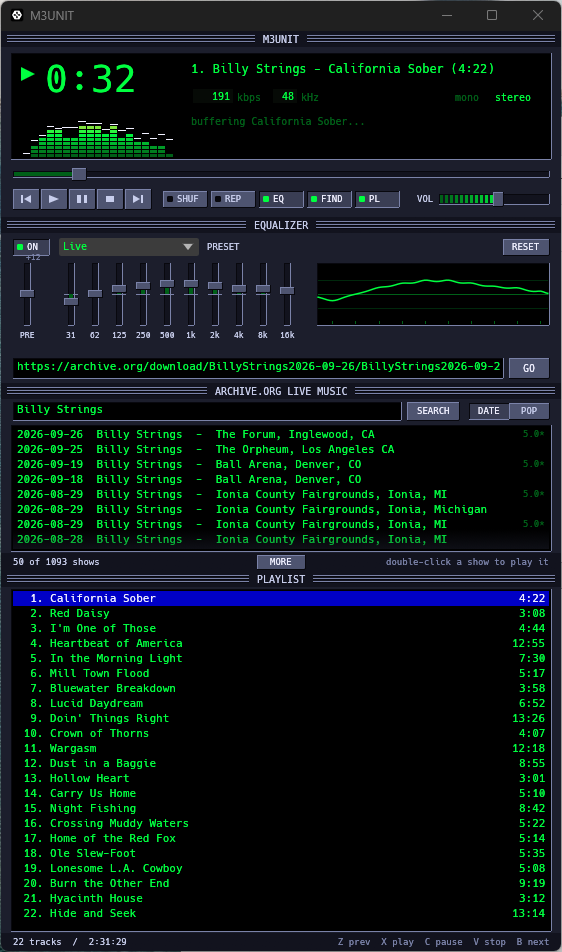
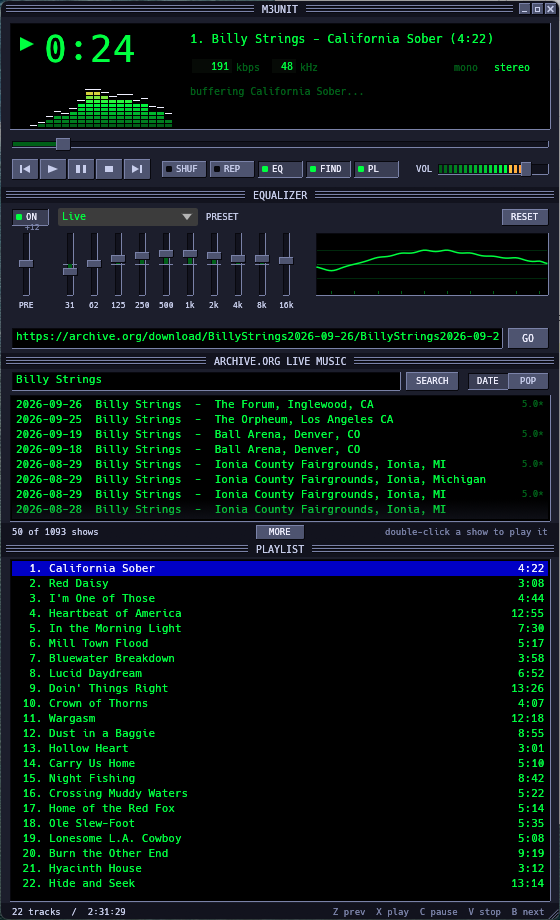
Draw our own title bar instead of the OS window chrome
The window is created without decorations. The M3UNIT bar now moves the
window when dragged, toggles maximize on double-click, and has minimize /
maximize / close buttons at the right. The right and bottom edges act as
resize handles, with a ridge grip in the playlist footer.

diff --git a/src/app.rs b/src/app.rs
@@ -5,9 +5,10 @@ use std::sync::mpsc;
 use std::time::{Duration, Instant};
 
 use egui::{
-    Align, Align2, Color32, CornerRadius, FontId, Key, Pos2, Rect, Response, RichText, Sense, Shape,
-    Stroke, StrokeKind, Ui, pos2, vec2,
+    Align, Align2, Color32, CornerRadius, CursorIcon, FontId, Key, PointerButton, Pos2, Rect, Response,
+    RichText, Sense, Shape, Stroke, StrokeKind, Ui, ViewportCommand, pos2, vec2,
 };
+use egui::viewport::ResizeDirection;
 use url::Url;
 
 use crate::archive::{self, SearchPage, Show, Sort};
@@ -547,29 +548,103 @@ impl App {
 
     // ------------------------------------------------------------- drawing
 
+    /// Section header: a hatched bar with a centred label.
     fn draw_title_bar(&self, ui: &mut Ui, label: &str) {
         let (rect, _) = ui.allocate_exact_size(vec2(ui.available_width(), 16.0), Sense::hover());
-        let p = ui.painter();
-        p.rect_filled(rect, 0.0, pal::BG_DEEP);
-        let galley = p.layout_no_wrap(label.to_string(), FontId::monospace(10.0), pal::TITLE);
-        let text_w = galley.size().x + 16.0;
-        let cx = rect.center().x;
-        // hatched grip lines on both sides of the label
-        for side in [-1.0f32, 1.0] {
-            let (x0, x1) = if side < 0.0 {
-                (rect.left() + 6.0, cx - text_w / 2.0)
-            } else {
-                (cx + text_w / 2.0, rect.right() - 6.0)
-            };
-            if x1 > x0 {
-                for k in 0..3 {
-                    let y = rect.top() + 4.0 + k as f32 * 3.0;
-                    p.line_segment([pos2(x0, y), pos2(x1, y)], Stroke::new(1.0, pal::LIGHT));
-                    p.line_segment([pos2(x0, y + 1.0), pos2(x1, y + 1.0)], Stroke::new(1.0, pal::DARK));
-                }
-            }
+        paint_title_bar(ui.painter(), rect, label, rect.left() + 6.0, rect.right() - 6.0);
+    }
+
+    /// The window's own title bar. OS decorations are off, so this bar moves
+    /// the window when dragged, toggles maximize on double-click, and carries
+    /// minimize / maximize / close buttons at the right like a classic skin.
+    fn draw_window_title_bar(&self, ui: &mut Ui) {
+        const BTN: f32 = 11.0;
+        const GAP: f32 = 2.0;
+        let (rect, bar) = ui.allocate_exact_size(vec2(ui.available_width(), 16.0), Sense::click_and_drag());
+        let ctx = ui.ctx().clone();
+        let maximized = ctx.input(|i| i.viewport().maximized.unwrap_or(false));
+
+        // Buttons, right to left: close, maximize, minimize.
+        let y = rect.center().y - BTN / 2.0;
+        let mut x = rect.right() - 4.0 - BTN;
+        let mut rects = [Rect::ZERO; 3];
+        for r in rects.iter_mut() {
+            *r = Rect::from_min_size(pos2(x, y), vec2(BTN, BTN));
+            x -= BTN + GAP;
         }
-        p.galley(pos2(cx - galley.size().x / 2.0, rect.center().y - galley.size().y / 2.0), galley, pal::TITLE);
+        let [close_r, max_r, min_r] = rects;
+        paint_title_bar(ui.painter(), rect, "M3UNIT", rect.left() + 6.0, min_r.left() - 6.0);
+
+        let p = ui.painter().clone();
+        let hit = |r: Rect, name: &str| -> (Response, Color32) {
+            let resp = ui.interact(r, ui.id().with(("winbtn", name)), Sense::click());
+            bevel(&p, r, resp.is_pointer_button_down_on());
+            let c = if resp.hovered() { pal::WHITE } else { pal::TITLE };
+            (resp, c)
+        };
+
+        let (resp, c) = hit(min_r, "min");
+        let g = min_r.shrink(3.0);
+        p.line_segment([pos2(g.left(), g.bottom()), pos2(g.right(), g.bottom())], Stroke::new(1.0, c));
+        if resp.clicked() {
+            ctx.send_viewport_cmd(ViewportCommand::Minimized(true));
+        }
+
+        let (resp, c) = hit(max_r, "max");
+        let g = max_r.shrink(3.0);
+        if maximized {
+            // two overlapping frames = "restore"
+            let a = Rect::from_min_max(g.min + vec2(2.0, 0.0), g.max - vec2(0.0, 2.0));
+            let b = Rect::from_min_max(g.min + vec2(0.0, 2.0), g.max - vec2(2.0, 0.0));
+            p.rect_stroke(a, 0.0, Stroke::new(1.0, c), StrokeKind::Inside);
+            p.rect_filled(b, 0.0, if resp.is_pointer_button_down_on() { pal::FACE } else { pal::FACE_HI });
+            p.rect_stroke(b, 0.0, Stroke::new(1.0, c), StrokeKind::Inside);
+        } else {
+            p.rect_stroke(g, 0.0, Stroke::new(1.0, c), StrokeKind::Inside);
+            p.line_segment([pos2(g.left(), g.top() + 1.0), pos2(g.right(), g.top() + 1.0)], Stroke::new(1.0, c));
+        }
+        if resp.clicked() {
+            ctx.send_viewport_cmd(ViewportCommand::Maximized(!maximized));
+        }
+
+        let (resp, c) = hit(close_r, "close");
+        let g = close_r.shrink(3.0);
+        p.line_segment([g.left_top(), g.right_bottom()], Stroke::new(1.5, c));
+        p.line_segment([g.right_top(), g.left_bottom()], Stroke::new(1.5, c));
+        if resp.clicked() {
+            ctx.send_viewport_cmd(ViewportCommand::Close);
+        }
+
+        if bar.double_clicked() {
+            ctx.send_viewport_cmd(ViewportCommand::Maximized(!maximized));
+        } else if bar.drag_started_by(PointerButton::Primary) {
+            ctx.send_viewport_cmd(ViewportCommand::StartDrag);
+        }
+    }
+
+    /// Without OS decorations there is no frame to grab, so the right and
+    /// bottom edges of the window act as resize handles. The bottom edge only
+    /// counts when the playlist is showing, since otherwise the window height
+    /// is fixed to its contents.
+    fn handle_edge_resize(&self, ctx: &egui::Context) {
+        const EDGE: f32 = 5.0;
+        if ctx.input(|i| i.viewport().maximized.unwrap_or(false)) || ctx.dragged_id().is_some() {
+            return;
+        }
+        let Some(pos) = ctx.input(|i| i.pointer.hover_pos()) else { return };
+        let rect = ctx.viewport_rect();
+        let east = pos.x >= rect.right() - EDGE;
+        let south = self.playlist_visible && pos.y >= rect.bottom() - EDGE;
+        let (dir, icon) = match (east, south) {
+            (true, true) => (ResizeDirection::SouthEast, CursorIcon::ResizeNwSe),
+            (true, false) => (ResizeDirection::East, CursorIcon::ResizeHorizontal),
+            (false, true) => (ResizeDirection::South, CursorIcon::ResizeVertical),
+            (false, false) => return,
+        };
+        ctx.set_cursor_icon(icon);
+        if ctx.input(|i| i.pointer.primary_pressed()) {
+            ctx.send_viewport_cmd(ViewportCommand::BeginResize(dir));
+        }
     }
 
     fn draw_display(&mut self, ui: &mut Ui) {
@@ -962,12 +1037,19 @@ impl App {
         };
         ui.painter().text(foot.min + vec2(12.0, 9.0), Align2::LEFT_CENTER, left, FontId::monospace(9.0), pal::TITLE);
         ui.painter().text(
-            pos2(foot.max.x - 12.0, foot.min.y + 9.0),
+            pos2(foot.max.x - 16.0, foot.min.y + 9.0),
             Align2::RIGHT_CENTER,
             "Z prev  X play  C pause  V stop  B next",
             FontId::monospace(9.0),
             pal::LIGHT,
         );
+        // resize grip in the corner, the classic diagonal ridges
+        for k in 1..=3 {
+            let d = k as f32 * 3.0;
+            let (a, b) = (pos2(foot.max.x - 2.0 - d, foot.max.y - 2.0), pos2(foot.max.x - 2.0, foot.max.y - 2.0 - d));
+            ui.painter().line_segment([a, b], Stroke::new(1.0, pal::LIGHT));
+            ui.painter().line_segment([a + vec2(1.0, 0.0), b + vec2(0.0, 1.0)], Stroke::new(1.0, pal::DARK));
+        }
     }
 }
 
@@ -979,7 +1061,7 @@ impl eframe::App for App {
             .frame(egui::Frame::NONE.fill(pal::BG))
             .show(ui, |ui| {
                 ui.spacing_mut().item_spacing = vec2(0.0, 0.0);
-                self.draw_title_bar(ui, "M3UNIT");
+                self.draw_window_title_bar(ui);
                 self.draw_display(ui);
                 self.draw_seek_bar(ui);
                 self.draw_controls(ui);
@@ -994,6 +1076,7 @@ impl eframe::App for App {
                     self.draw_playlist(ui);
                 }
             });
+        self.handle_edge_resize(&ctx);
     }
 }
 
@@ -1338,6 +1421,25 @@ fn inset(p: &egui::Painter, r: Rect, fill: Color32) {
     p.line_segment([r.left_top(), r.left_bottom()], Stroke::new(1.0, pal::DARK));
     p.line_segment([r.left_bottom(), r.right_bottom()], Stroke::new(1.0, pal::LIGHT));
     p.line_segment([r.right_top(), r.right_bottom()], Stroke::new(1.0, pal::LIGHT));
+}
+
+/// Hatched title bar with a centred label. The grip lines run from `x0` to
+/// `x1`, stopping either side of the text.
+fn paint_title_bar(p: &egui::Painter, rect: Rect, label: &str, x0: f32, x1: f32) {
+    p.rect_filled(rect, 0.0, pal::BG_DEEP);
+    let galley = p.layout_no_wrap(label.to_string(), FontId::monospace(10.0), pal::TITLE);
+    let text_w = galley.size().x + 16.0;
+    let cx = rect.center().x;
+    for (a, b) in [(x0, cx - text_w / 2.0), (cx + text_w / 2.0, x1)] {
+        if b > a {
+            for k in 0..3 {
+                let y = rect.top() + 4.0 + k as f32 * 3.0;
+                p.line_segment([pos2(a, y), pos2(b, y)], Stroke::new(1.0, pal::LIGHT));
+                p.line_segment([pos2(a, y + 1.0), pos2(b, y + 1.0)], Stroke::new(1.0, pal::DARK));
+            }
+        }
+    }
+    p.galley(pos2(cx - galley.size().x / 2.0, rect.center().y - galley.size().y / 2.0), galley, pal::TITLE);
 }
 
 /// Raised button face; `pressed` flips the edges.

diff --git a/src/main.rs b/src/main.rs
@@ -25,7 +25,9 @@ fn main() -> eframe::Result {
             .with_title("M3UNIT")
             .with_inner_size([app::WIN_W, app::WIN_H])
             .with_min_inner_size([app::WIN_W, app::MIN_H])
-            .with_resizable(true),
+            .with_resizable(true)
+            // No OS title bar: the skin draws its own (see App::draw_window_title_bar).
+            .with_decorations(false),
         ..Default::default()
     };
 

diff --git a/README.md b/README.md
@@ -30,6 +30,9 @@ search thousands of live shows and start playing one with a double-click.
   shortcuts for every transport control.
 - **Collapsible panels.** Hide the equalizer, the show browser or the
   playlist and the window shrinks to fit.
+- **Skinned window.** No OS title bar: the app draws its own with minimize,
+  maximize and close buttons. Drag the title bar to move the window,
+  double-click it to maximize, and resize from the right or bottom edge.
 
 Built in Rust with [egui](https://github.com/emilk/egui) for the window,
 [rodio](https://github.com/RustAudio/rodio) (symphonia) for decoding, and
@@ -69,6 +72,7 @@ the box and hit **GO**, or use the show browser below it.
 | Play a specific track | double-click it in the playlist | |
 | Shuffle / repeat (all → one → off) | SHUF / REP toggles | |
 | Show / hide equalizer, show browser, playlist | EQ / FIND / PL toggles | |
+| Move / maximize / resize window | drag title bar / double-click it / drag right or bottom edge | |
 
 Pressing previous more than three seconds into a track restarts it instead.
 
